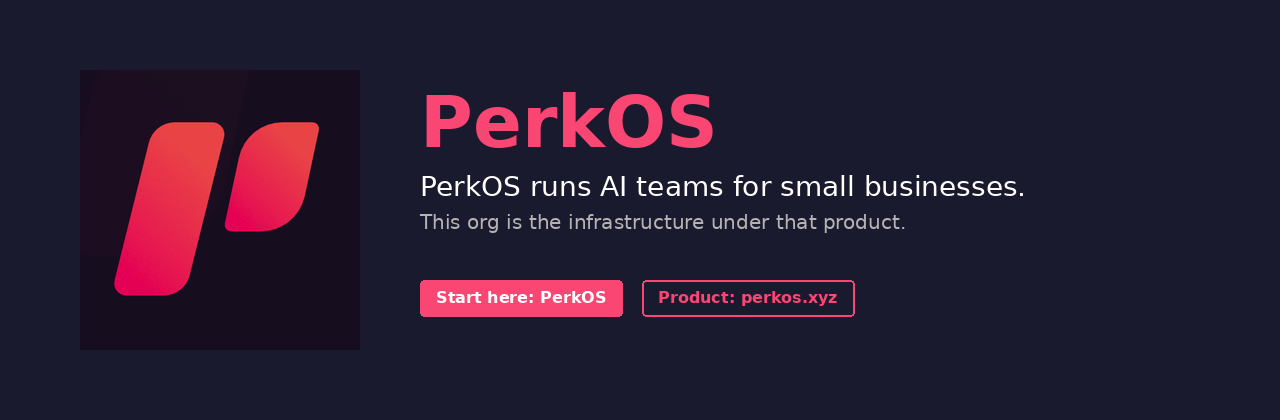
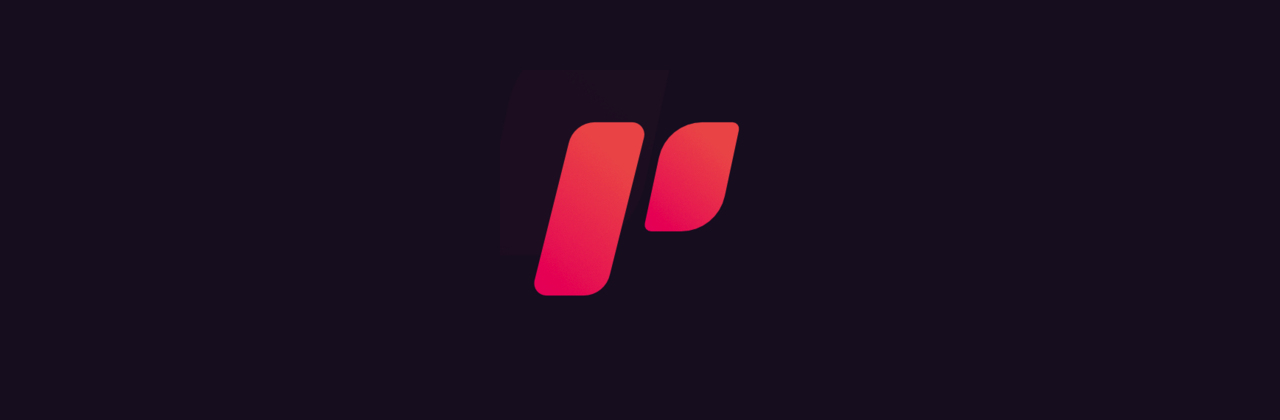
Refocus org profile for builder/diligence audience
- Hero: clean dark landscape with official P logo only, no wordmark or chips
- First fold: infra sentence + rails + six start-here repos in specified order
- Rails: Identity, Payments, Coordination, Validation
- Start-here repos: PerkOS, Stack, Perkos-Containers, PerkOS-Agent-SDK, PerkOS-Knowledge, PerkOS-Platform-Tools-API
- Moved MiniPay, EQLTY, pkg-* to 'More repos' section below the fold
- Removed 'How it works' SMB product-demo section
- Preserved locked line: PerkOS runs AI teams for small businesses.

Changed region(s): [[0.3125, 0.2167, 0.8125, 0.7738], [0.0625, 0.2786, 0.25, 0.7119]]

diff --git a/profile/README.md b/profile/README.md
@@ -1,6 +1,6 @@
 <div align="center">
 
-<img src="readme-hero.png" alt="PerkOS — AI teams for small businesses" width="100%" />
+<img src="readme-hero.png" alt="PerkOS" width="100%" />
 
 [**Start here: PerkOS**](https://github.com/PerkOS-xyz/PerkOS) · [**Product: perkos.xyz**](https://perkos.xyz)
 
@@ -8,21 +8,26 @@
 
 ---
 
-## What this org is
+**PerkOS runs AI teams for small businesses.**
 
-Infrastructure for running AI agent teams that serve small businesses. The product is [perkos.xyz](https://perkos.xyz) — this org holds the systems that make it work.
+This org is the infrastructure under that product.
 
 **Rails:** Identity · Payments · Coordination · Validation
 
-## How it works
+## Start here
 
-1. **Pick a team.** Industry templates, or build your own.
-2. **Sign in with a wallet.** No passwords, no separate account system.
-3. **Agents get provisioned.** Automatically, on managed infrastructure or your own VPS.
-4. **A lead agent plans, you approve.** Nothing goes out without a human saying yes.
-5. **Workers execute on a shared board.** You watch it happen, and you keep the artifacts.
+| Repo | What it is |
+|---|---|
+| [PerkOS](https://github.com/PerkOS-xyz/PerkOS) | The workspace. Next.js, wallet auth, projects, boards, agent management. |
+| [Stack](https://github.com/PerkOS-xyz/Stack) | The x402 facilitator and agent payment platform. |
+| [Perkos-Containers](https://github.com/PerkOS-xyz/Perkos-Containers) | Runtime images for ECS Fargate. OpenClaw, Hermes and ZeroClaw. |
+| [PerkOS-Agent-SDK](https://github.com/PerkOS-xyz/PerkOS-Agent-SDK) | Agent identity, escrow settlement and reputation. |
+| [PerkOS-Knowledge](https://github.com/PerkOS-xyz/PerkOS-Knowledge) | Knowledge commons with prepaid credits and revenue sharing. |
+| [PerkOS-Platform-Tools-API](https://github.com/PerkOS-xyz/PerkOS-Platform-Tools-API) | Server-side tools agents call, scoped to the owner's wallet. |
 
-## Product surfaces (what this infra serves)
+---
+
+## Product surfaces
 
 | | |
 |---|---|
@@ -41,27 +46,17 @@ verifiable by someone who does not have to trust us.
 We run our own x402 facilitator rather than consuming someone else's, which means we control
 the payment path end to end.
 
-## Where to start reading
+## More repos
 
 **Platform**
 | Repo | What it is |
 |---|---|
-| [PerkOS](https://github.com/PerkOS-xyz/PerkOS) | The workspace itself. Next.js, wallet auth, projects, boards, agent management. |
-| [PerkOS-Knowledge](https://github.com/PerkOS-xyz/PerkOS-Knowledge) | Knowledge commons with prepaid credits and revenue sharing. |
 | [PerkOS-MiniPay](https://github.com/PerkOS-xyz/PerkOS-MiniPay) | Coworking of AI agents for small businesses on MiniPay. |
 | [PerkOS-EQLTY](https://github.com/PerkOS-xyz/PerkOS-EQLTY) | Autonomous financial assistant fleet using ENS policies and The Graph. |
-
-**Agents and runtime**
-| Repo | What it is |
-|---|---|
-| [Perkos-Containers](https://github.com/PerkOS-xyz/Perkos-Containers) | Runtime images for ECS Fargate. OpenClaw, Hermes and ZeroClaw. |
-| [PerkOS-Agent-SDK](https://github.com/PerkOS-xyz/PerkOS-Agent-SDK) | Agent identity, escrow settlement and reputation. |
-| [PerkOS-Platform-Tools-API](https://github.com/PerkOS-xyz/PerkOS-Platform-Tools-API) | Server-side tools agents call, scoped to the owner's wallet. |
 
 **Payments and x402**
 | Repo | What it is |
 |---|---|
-| [Stack](https://github.com/PerkOS-xyz/Stack) | The facilitator and agent payment platform. |
 | [pkg-middleware-x402](https://github.com/PerkOS-xyz/pkg-middleware-x402) · [pkg-service-x402](https://github.com/PerkOS-xyz/pkg-service-x402) | x402 middleware and service layer. |
 | [pkg-scheme-exact](https://github.com/PerkOS-xyz/pkg-scheme-exact) · [pkg-scheme-deferred](https://github.com/PerkOS-xyz/pkg-scheme-deferred) | Payment scheme implementations. |
 | [pkg-contracts-escrow](https://github.com/PerkOS-xyz/pkg-contracts-escrow) · [pkg-contracts-erc8004](https://github.com/PerkOS-xyz/pkg-contracts-erc8004) | Escrow and ERC-8004 identity contracts. |
